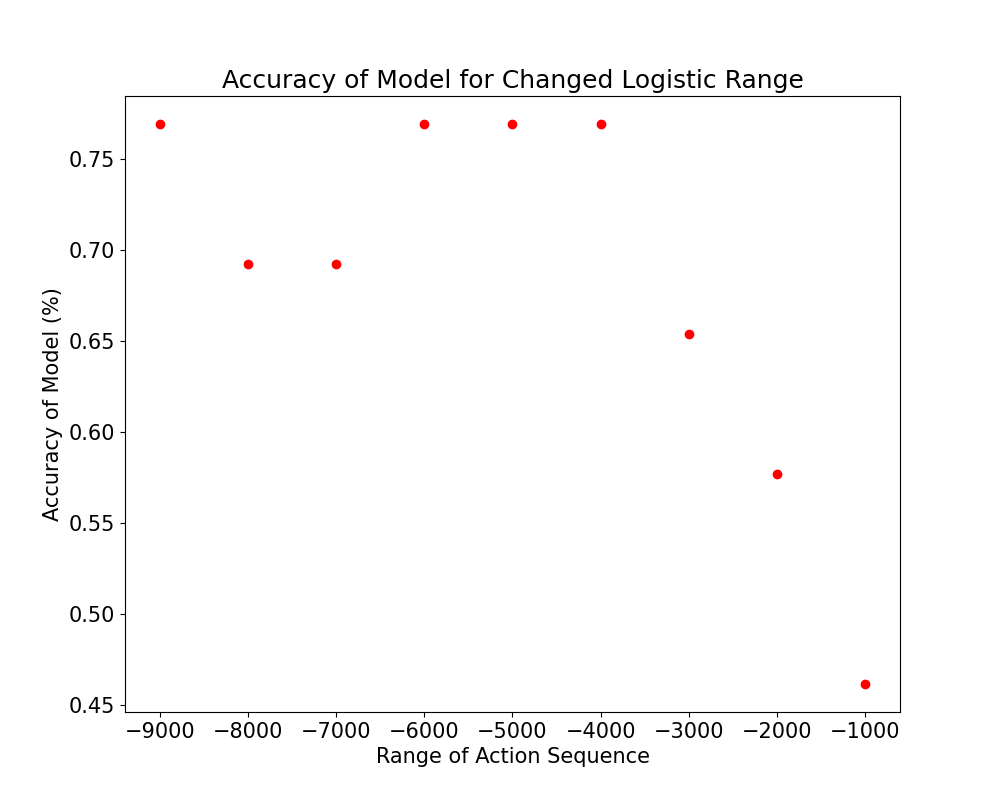
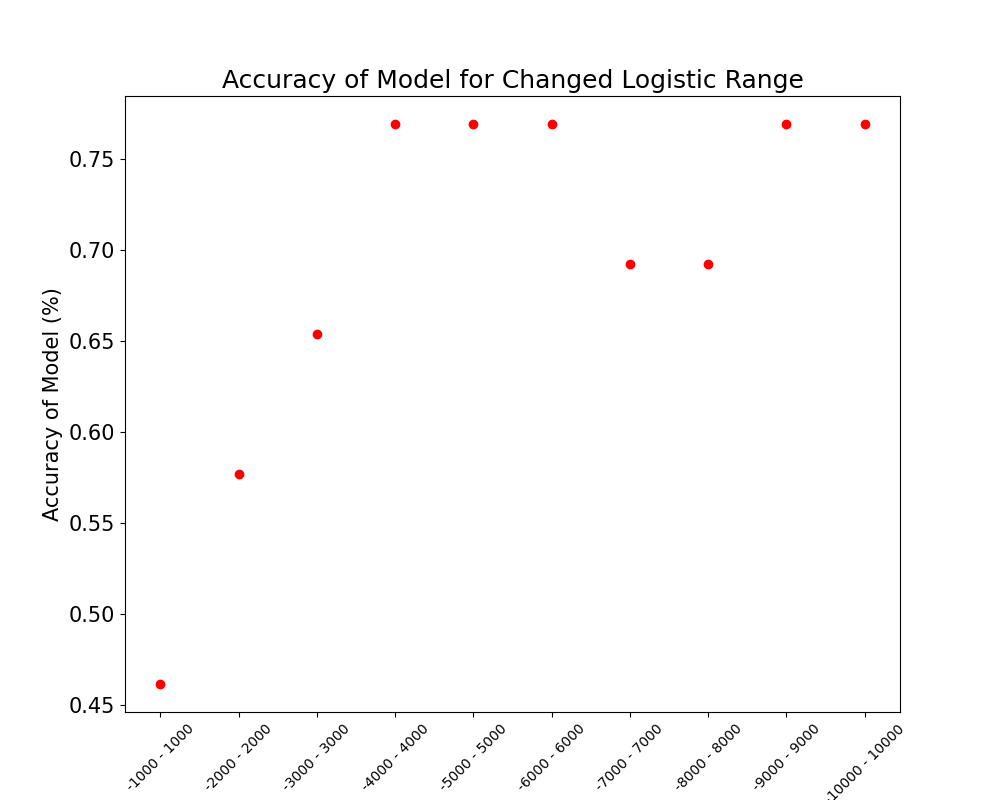
finish ranged predictions graph

diff --git a/analysis.py b/analysis.py
@@ -401,16 +401,17 @@ if __name__ == "__main__":
     index = 0
     lower_lim = 0
 
-    for x in range(0, 9):
+    for x in range(0, 10):
         action_df_seq, total_df_seq = parse_sequence_dataframe(0.4)
         linear_regression(action_df_seq, total_df_seq, 1, index)
         index = index + 1
         lower_lim = lower_lim - 1000
         upper_lim = -1 * lower_lim
-        ranges.append(lower_lim)
+        ranges.append(str(lower_lim) + " - " + str(upper_lim))
         predictions.append(logistic_regression(action_df_seq, total_df_seq, 1, index, lower_lim, upper_lim))
     
     plt.scatter(ranges, predictions, c='r')
+    plt.xticks(rotation = 45, fontsize = 10)
     plt.title("Accuracy of Model for Changed Logistic Range")
     plt.xlabel("Range of Action Sequence", fontsize=15)
     plt.ylabel("Accuracy of Model (%)", fontsize=15)
